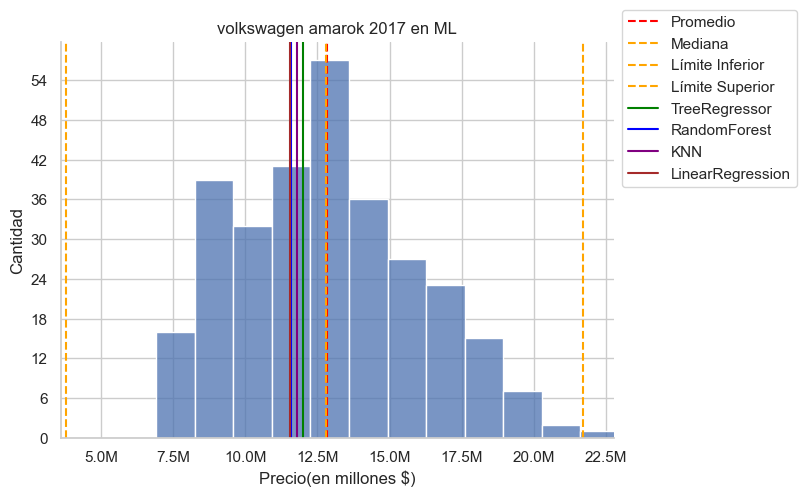
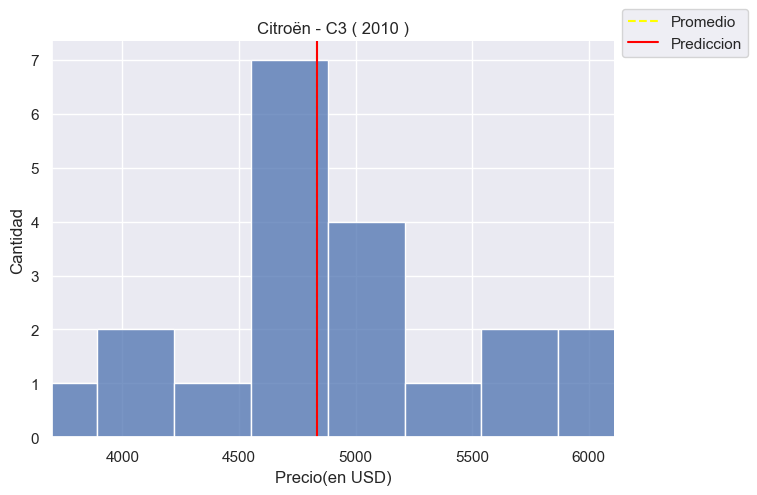
corregir varios errores

diff --git a/templates/result.html b/templates/result.html
@@ -2,6 +2,7 @@
 <html>
 <head>
     <title>Analisis de precios</title>
+    <meta charset="UTF-8">
     <meta name="viewport" content="width=device-width, initial-scale=1.0">
     <link rel="stylesheet" href="https://stackpath.bootstrapcdn.com/bootstrap/4.5.2/css/bootstrap.min.css">
     <style>
@@ -106,13 +107,8 @@
     {% if tamanioDB > 10 %}
     <div class="card">
         <div class="card-body">
-            <h5 class="card-title">Valores predecidos</h5>
-            <ul>
-                <li>Precio predecido con Tree Regressor: ${{ "{:,.0f}".format(ypred1) }}</li>
-                <li>Precio predecido con Random Forest Regressor: ${{ "{:,.0f}".format(ypred2) }}</li>
-                <li>Precio predecido con KNN Regressor: ${{ "{:,.0f}".format(ypred3) }}</li>
-                <li>Precio predecido con Linear Regressor: ${{ "{:,.0f}".format(ypred4) }}</li>
-            </ul>
+            <h2 class="card-title">USD {{ "{:,.0f}".format(mediana) }}</h2>
+            <p class="card-text">Es el valor medio predecido por los 4 modelos</p>
         </div>
     </div>
     {% else %}
@@ -126,25 +122,21 @@
     {% endif %}
     <div class="card">
         <div class="card-body">
-            <h5 class="card-title">Grafica de precios vs unidades publicadas</h5>
-            <img src="{{plot_path}}" alt="Plot Image">
-            <p class="card-text">En este grafico se muestra cuantos autos hay publicados en cada valor.</p>
+            <img src="{{plot_path}}">
+        </div>
+    </div>
+    {% if hist1 is not none %}
+    <div class="card">
+        <div class="card-body">
+            <img src="{{hist2}}" >
         </div>
     </div>
     <div class="card">
         <div class="card-body">
-            <h5 class="card-title">Grafica de precios promedio por año</h5>
-            <img src="{{hist2}}" alt="Plot Image">
-            <p class="card-text">En este grafico se muestra .</p>
+            <img src="{{hist1}}">
         </div>
     </div>
-    <div class="card">
-        <div class="card-body">
-            <h5 class="card-title">Grafica de unidades por año</h5>
-            <img src="{{hist1}}" alt="Plot Image">
-            <p class="card-text">En este grafico se muestra .</p>
-        </div>
-    </div>
+    {% endif %}
 
     {% if not DBautosbaratos.empty and not DBbuenprecioxkm.empty %}
         <div class="card">
@@ -177,6 +169,12 @@
     <div class="card">
         <div class="card-body">
             <h5 class="card-title">Performance de cada modelo</h5>
+            <ul>
+                <li>Precio predecido con Tree Regressor: ${{ "{:,.0f}".format(ypred1) }}</li>
+                <li>Precio predecido con Random Forest Regressor: ${{ "{:,.0f}".format(ypred2) }}</li>
+                <li>Precio predecido con KNN Regressor: ${{ "{:,.0f}".format(ypred3) }}</li>
+                <li>Precio predecido con Linear Regressor: ${{ "{:,.0f}".format(ypred4) }}</li>
+            </ul>
             {{ performance.to_html(classes="table table-striped")|safe }}
             <p class="card-text">RMSE: El RMSE se expresa en la misma unidad que los valores de la variable objetivo y se interpreta como el error típico o la diferencia promedio entre las predicciones del modelo y los valores reales. Es una métrica comúnmente utilizada en problemas de regresión y pronóstico para evaluar la calidad y precisión del modelo.valores más bajos indican una mayor precisión y valores más altos indican una mayor discrepancia entre las predicciones y los valores reales.</p>
             <p class="card-text">R²: Un valor de R² cercano a 1 indica un buen ajuste del modelo a los datos, lo que significa que una gran proporción de la variabilidad de la variable dependiente está siendo explicada. Por otro lado, un valor de R² cercano a 0 indica que el modelo no está explicando bien los datos y que la variabilidad observada es principalmente aleatoria</p>

diff --git a/templates/index.html b/templates/index.html
@@ -1,6 +1,7 @@
 <!DOCTYPE html>
 <html>
 <head>
+    <meta charset="UTF-8">
     <meta name="viewport" content="width=device-width,initial-scale=1" />
     <title>Predictor de precio de auto</title>
     <style>

diff --git a/app.py b/app.py
@@ -420,19 +420,15 @@ def pred():
                 valor_2 = int(ypred2[0])
                 valor_3 = int(ypred3[0])
                 valor_4 = int(ypred4[0])
-
+                mediana = (valor_1 + valor_2 + valor_3 + valor_4) / 4
+                
 
                 # Crear el gráfico precio vs cantidad
-                sns.set(style="whitegrid")
+                sns.set()
                 ax = sns.histplot(data=DBauto,x='precio')
-                ax.axvline(precio_mean, color='red', linestyle='--', label='Promedio')
-                ax.axvline(precio_med, color = 'orange', linestyle= '--', label='Mediana' )
-                ax.axvline(lower, color='orange', linestyle='--', label='Límite Inferior')
-                ax.axvline(upper, color='orange', linestyle='--', label='Límite Superior')
-                ax.axvline(valor_1, color='green', linestyle='-', label='TreeRegressor')
-                ax.axvline(valor_2, color='blue', linestyle='-', label='RandomForest')
-                ax.axvline(valor_3, color='purple', linestyle='-', label='KNN')
-                ax.axvline(valor_4, color='brown', linestyle='-', label='LinearRegression')
+                ax.axvline(precio_mean, color='yellow', linestyle='--', label='Promedio')
+                ax.axvline(mediana, color='red', linestyle='-', label='Prediccion')
+
         else: #SI HAY MENOS DE 10 RESULTADOS ENTONCES NO SE GENERAN PREDICCIONES
                 ypred1=[0]
                 ypred2=[0]
@@ -448,22 +444,20 @@ def pred():
                 r2_score4=0
                 performance=0
                 #se grafica solo las estadisticas
-                sns.set(style="whitegrid")
+                sns.set()
                 ax = sns.histplot(data=DBauto,x='precio')
-                ax.axvline(precio_mean, color='red', linestyle='--', label='Promedio')
-                ax.axvline(precio_med, color = 'orange', linestyle= '--', label='Mediana' )
-                ax.axvline(lower, color='orange', linestyle='--', label='Límite Inferior')
-                ax.axvline(upper, color='orange', linestyle='--', label='Límite Superior')
+                ax.axvline(precio_mean, color='red', linestyle='-', label='Promedio')
+                mediana = 0
         
         #Formateo del grafico haya o no resultados
-        ax.xaxis.set_major_formatter(ticker.FuncFormatter(lambda x, pos: '{:,.1f}M'.format(x / 1000000)))
+        #ax.xaxis.set_major_formatter(ticker.FuncFormatter(lambda x, pos: ':,.0f'))
         ax.yaxis.set_major_locator(ticker.MaxNLocator(integer=True))
         plt.tight_layout()
         ax.legend(loc='upper left',bbox_to_anchor=(1, 1.1))
         ax.set(xlim=(lower*0.95, upper*1.05))
         plt.ylabel('Cantidad')
-        plt.xlabel('Precio(en millones $)')
-        plt.title(marca+" "+modelo+" "+str(anio)+" en ML")
+        plt.xlabel('Precio(en USD)')
+        plt.title(marca.capitalize()+" - "+modelo.capitalize()+" ( "+str(anio)+" )")
 
         # Guarda el gráfico precio vs cantidad
         sns.despine()
@@ -471,8 +465,8 @@ def pred():
         plt.savefig(temp_file, bbox_inches='tight')
         plt.close()
     
-        hist1 = grafcantidadhist(marca.capitalize(),modelo.capitalize())
-        hist2 = grafpreciohist(marca.capitalize(),modelo.capitalize())
+        hist1 = grafcantidadhist(marca.capitalize(),modelo.capitalize(),int(anio))
+        hist2 = grafpreciohist(marca.capitalize(),modelo.capitalize(),int(anio))
         # Render the prediction result template with the predicted price
         return render_template('result.html',
                     cantidad=cantidad,
@@ -505,7 +499,8 @@ def pred():
                     versionFREQ=versionFREQ,
                     performance=performance,
                     hist1 = hist1,
-                    hist2 = hist2 
+                    hist2 = hist2,
+                    mediana = mediana 
                     )
     else:
          return render_template('zero.html')    #UN TEMPLATE SI NO HUBO RESULTADOS

diff --git a/functions.py b/functions.py
@@ -9,7 +9,7 @@ from fastparquet import ParquetFile
 
 def load_car_models():
     car_models = {}
-    with open('./data/modelosmarcas.csv', 'r') as csvfile:
+    with open('./data/modelosmarcas.csv', 'r',encoding='utf-8') as csvfile:
         reader = csv.reader(csvfile)
         for row in reader:
             marca = row[3]
@@ -23,7 +23,7 @@ def load_car_models():
 
 def get_marcas():
     marcas = []
-    with open('./data/marcas.csv', 'r') as csvfile:
+    with open('./data/marcas.csv', 'r',encoding='utf-8') as csvfile:
         reader = csv.reader(csvfile)
         for row in reader:
             marca = row[1]
@@ -61,7 +61,7 @@ def round_next(num):
 
 
 
-def grafcantidadhist(marca,modelo):
+def grafcantidadhist(marca,modelo,anio):
 
     try:
         pf=ParquetFile('./data/raw/'+marca+modelo+'historico.parq')
@@ -74,12 +74,15 @@ def grafcantidadhist(marca,modelo):
     ax.set_title('Cantidad x año')
     ax.set_xticks(ax.get_xticks())
     ax.tick_params(axis='x', rotation=90)
+    highlight_year= df.loc[df['año']==int(anio)].index[0]
+    ax.patches[highlight_year].set_facecolor('red')
+    ax.get_xticklabels()[highlight_year].set_color('red')
     temp_file = 'static/grafcantidadhist.png'
     plt.savefig(temp_file, bbox_inches='tight')
     plt.close()
     return temp_file
 
-def grafpreciohist(marca,modelo):
+def grafpreciohist(marca,modelo,anio):
     try:
         pf=ParquetFile('./data/raw/'+marca+modelo+'historico.parq')
         df= pf.to_pandas()
@@ -92,7 +95,12 @@ def grafpreciohist(marca,modelo):
     ax.set_title('Precio promedio x año')
     ax.set_xticks(ax.get_xticks())
     ax.tick_params(axis='x', rotation=90)
+    ax.axvline(anio, color = 'orange', linestyle= '-', label='año' )
+    precio = df.loc[df['año']== anio,'precio'].values[0]
+    plt.scatter(anio, precio, color='red', marker='o', s=100)
+    plt.annotate(f'{precio:.0f}', (anio, precio), textcoords="offset points", xytext=(-10,10), ha='right')
     temp_file = 'static/grafpreciohist.png'
     plt.savefig(temp_file, bbox_inches='tight')
     plt.close()
     return temp_file
+
